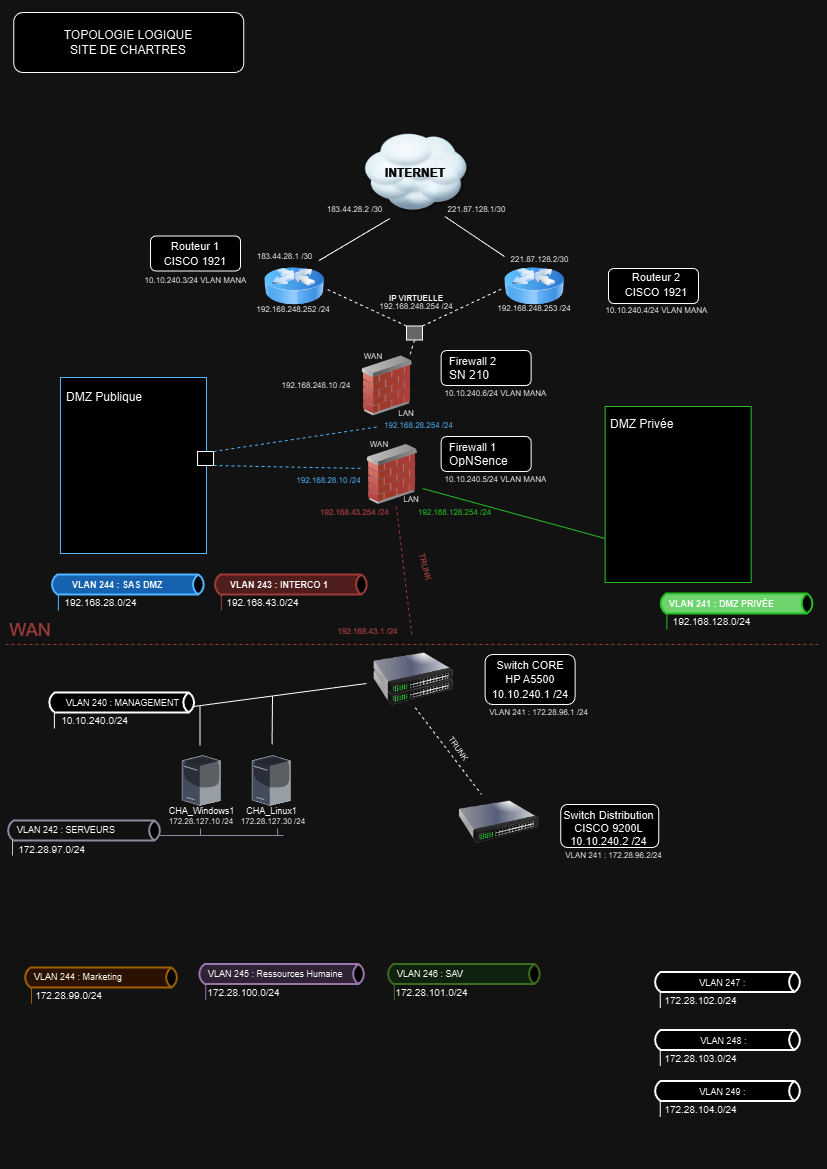
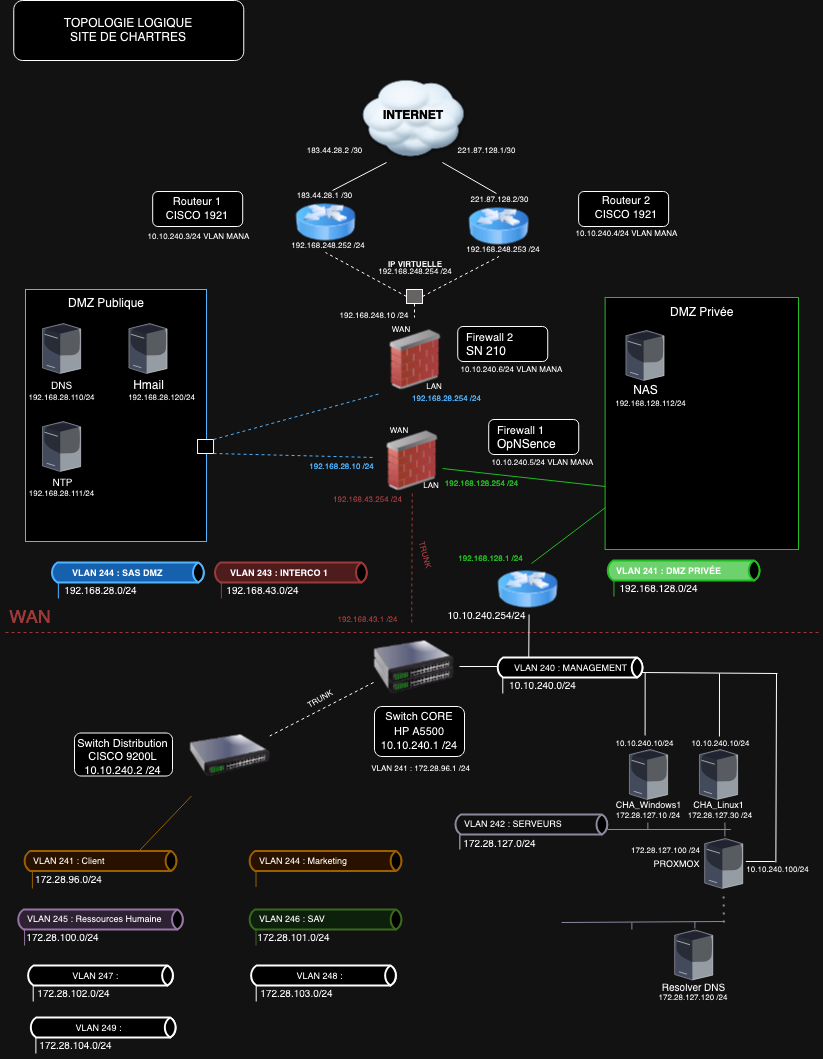
NAS

diff --git a/docs/NAS /config-xigmanas.md b/docs/NAS /config-xigmanas.md
@@ -1,0 +1,135 @@
+# 1. Configuration de XigmaNAS
+
+## Informations Générales
+**Nom du Serveur**: `CHA-NAS`  
+**Version**: `Dernière version stable - 13.3.0.5 - Hesterion (revision 10153)`  
+**Adresse IP**: `192.168.128.112 - DMZ PRIVÉE`  
+**Rôle**: Partage de fichiers, stockage en réseau (NAS)
+**Type**: Serveur Virtuel sur NUTANIX
+---
+
+## Étapes de Configuration
+
+### 1. Installation
+1. Téléchargez l'image ISO de XigmaNAS depuis le site officiel.
+2. Mettre l'iso sur **Nutanix**.
+3. Création de la machine virtuelle.
+- 8Go RAM 
+- 1 Disque SYSTEM de 50Go
+- 3 Disques DATA de 1To
+
+---
+
+### 3. Configuration Réseau
+
+#### **Paramètres réseau**
+- **Adresse IP Statique** : `192.168.128.112`
+- **Masque de Sous-Réseau** : `255.255.255.0`
+- **Passerelle par défaut** : `192.168.128.254`
+- **DNS primaire** : `172.28.127.120`
+- **DNS secondaire** : `*`
+
+- **Enregistrement DNS**: nas.chartres.sportludique.fr
+
+#### **Accès au Tableau de Bord**
+- Ouvrez votre navigateur web et accédez à :  
+  `http://192.168.128.112`
+
+---
+
+### 4. Configuration des Services - **PAS ENCORE ACTIF**
+Activez et configurez les services nécessaires dans le tableau de bord :
+
+#### **SMB/CIFS** (Partage Windows)
+- Allez dans `Services > SMB/CIFS`.
+- Activez le service.
+- Configurez les paramètres principaux :
+  - **Nom NetBIOS** : `XigmaNAS`
+  - **Groupe de Travail** : `WORKGROUP`
+- Ajoutez les répertoires partagés.
+
+#### **NFS** (Partage UNIX/Linux)
+- Activez le service dans `Services > NFS`.
+- Configurez les chemins d'accès et permissions.
+
+#### **FTP** (Transfert de fichiers)
+- Activez le service dans `Services > FTP`.
+- Créez des utilisateurs et attribuez des permissions.
+
+---
+
+### 5. Gestion des Utilisateurs avec Active Directory **PAS ENCORE ACTIF**
+
+L'intégration de XigmaNAS avec un serveur **Active Directory (AD)** permet de centraliser la gestion des utilisateurs et des groupes, en simplifiant l'administration des accès réseau.
+
+#### **Étapes pour configurer l'intégration avec Active Directory :**
+
+1. **Pré-requis :**
+   - Un serveur Active Directory fonctionnel.
+   - Le domaine AD auquel XigmaNAS doit se joindre (ex. `chartres.sportludique.fr`). 
+   - Un compte utilisateur dans l'AD avec des droits d'administration pour joindre des machines au domaine.
+   - XigmaNAS configuré avec une adresse IP statique (ex. `192.168.128.112`).
+
+2. **Configurer les paramètres réseau :**
+   - Assurez-vous que XigmaNAS peut résoudre les noms DNS du domaine AD.
+   - Configurez le DNS primaire de XigmaNAS pour pointer vers le contrôleur de domaine AD (ex. `172.28.127.120`).
+
+   **Exemple :**
+   - Allez dans `Réseau > Configuration Globale`.
+   - Définissez le **DNS principal** comme l'IP de votre contrôleur de domaine.
+   - Redémarrez les services réseau pour appliquer les modifications.
+
+3. **Rejoindre le domaine Active Directory :**
+   - Accédez à `Services > Active Directory`.
+   - Activez le service et remplissez les champs :
+     - **Nom du Domaine** : `lan.chartres.sportludique.fr`.
+     - **Nom NetBIOS** : `xigmanas`.
+     - **Nom d'Utilisateur** : Un compte administrateur AD (ex. `admin`).
+     - **Mot de Passe** : Le mot de passe de l’utilisateur.
+     - **Serveur LDAP** (optionnel) : Laissez vide pour une détection automatique.
+     - **Serveur Kerberos** : Laissez vide pour une détection automatique.
+   - Cliquez sur **Enregistrer et Appliquer**.
+
+4. **Vérifier l'intégration :**
+   - Une fois connecté au domaine, les utilisateurs et groupes AD seront visibles dans `Accès > Utilisateurs et Groupes`.
+   - Testez la connexion en vous connectant avec un utilisateur AD à un partage réseau configuré.
+
+5. **Configurer les permissions avec les groupes AD :**
+   - Allez dans `Disques > Partages`.
+   - Ajoutez un partage ou modifiez un existant.
+   - Dans la section **Permissions**, sélectionnez un utilisateur ou un groupe provenant d’AD (ex. `DOMAIN\Utilisateurs`).
+   - Définissez les permissions :
+     - **Lecture seule** : Les membres peuvent uniquement voir les fichiers.
+     - **Lecture/Écriture** : Les membres peuvent modifier ou supprimer des fichiers.
+   - Enregistrez les modifications.
+
+6. **Surveiller l’état de l’intégration :**
+   - Consultez les journaux de XigmaNAS via `Système > Journaux` pour vérifier l'état des connexions AD.
+   - En cas de problème, vérifiez la configuration DNS et assurez-vous que l'heure système est synchronisée avec le contrôleur AD.
+
+---
+
+#### **Bonnes pratiques :**
+- Utilisez un compte de service dédié pour rejoindre XigmaNAS au domaine, avec des droits limités.
+- Vérifiez que l'heure système de XigmaNAS est synchronisée avec celle de votre contrôleur de domaine (utilisez **NTP** si nécessaire).
+- Limitez les permissions des partages réseau en utilisant des groupes AD pour une gestion plus simple.
+- Surveillez régulièrement l'intégration pour détecter tout problème de connectivité ou de synchronisation.
+
+*Cette section assure une gestion optimisée et centralisée des utilisateurs à travers Active Directory dans XigmaNAS.*
+
+
+---
+
+### 6. Surveillance et Maintenance
+- Configurez les notifications par email pour les alertes système.
+- Vérifiez régulièrement les journaux système dans `Système > Journaux`.
+
+---
+
+## Informations Complémentaires
+- **Documentation officielle** : [https://www.xigmanas.com/wiki/](https://www.xigmanas.com/wiki/)  
+- **Communauté et Support** : Forums sur le site officiel.
+
+---
+
+*Dernière mise à jour de la configuration : [20/11/2024]*

diff --git a/docs/NAS /config-ZFS-RAIDZ1.md b/docs/NAS /config-ZFS-RAIDZ1.md
@@ -1,0 +1,200 @@
+# Créer un Pool RaidZ1 avec ZFS : Guide Complet en 34 Étapes
+
+Ce guide explique comment créer un Pool **RaidZ1** avec 4 disques en ZFS. Chaque étape est accompagnée d'une image pour illustrer les actions à réaliser.
+
+---
+
+## 1. Commencer avec des disques vides  
+Accédez à **Disques > ZFS > Pools > Gestion** :  
+![](../images/imagenas/etape1.JPG)
+
+---
+
+## 2. Importer les disques disponibles  
+Cliquez sur **Importer les disques disponibles** :  
+![](../images/imagenas/etape2.JPG)
+
+---
+
+## 3. Appliquer les modifications pour importer  
+Cliquez sur **Appliquer** pour valider l'importation :  
+![](../images/imagenas/etape3.JPG)
+
+---
+
+## 4. Disques importés  
+Les disques importés apparaissent dans la liste :  
+![](../images/imagenas/etape4.JPG)
+
+---
+
+## 5. Système de fichiers "Inconnu"  
+Les disques affichent un système de fichiers "Inconnu" et ne peuvent pas être utilisés sans formatage :  
+![](../images/imagenas/etape5.JPG)
+
+---
+
+## 6. Vue d'ensemble des disques à formater  
+Accédez à **Disques > Gestion** pour voir les disques à formater pour ZFS :  
+![](../images/imagenas/etape6.JPG)
+
+---
+
+## 7. Sélectionner les disques à utiliser pour ZFS  
+Cochez les disques que vous souhaitez utiliser pour ZFS :  
+![](../images/imagenas/etape7.JPG)
+
+---
+
+## 8. Vérifier les disques sélectionnés  
+Assurez-vous que les disques sont correctement sélectionnés. **Ne modifiez pas les options de formatage** :  
+![](../images/imagenas/etape8.JPG)
+
+---
+
+## 9. Formater les disques sélectionnés  
+Cliquez sur **Formater** pour formater les disques sélectionnés pour ZFS :  
+![](../images/imagenas/etape9.JPG)
+
+---
+
+## 10. Disques formatés pour ZFS  
+Les disques sont maintenant formatés et prêts pour ZFS :  
+![](../images/imagenas/etape10.JPG)
+
+---
+
+## 11. Disques prêts pour ZFS  
+Tous les disques sont maintenant prêts à être utilisés pour ZFS :  
+![](../images/imagenas/etape11.JPG)
+
+---
+
+## 12. Accédez à la gestion des Pools  
+Allez dans **Disques > ZFS > Pools > Gestion**, la page sera vide pour l'instant :  
+![](../images/imagenas/etape12.JPG)
+
+---
+
+## 13. Aller dans la section Périphérique virtuel  
+Allez dans la section **Périphérique virtuel** :  
+![](../images/imagenas/etape13.JPG)
+
+---
+
+## 14. Créer un nouveau périphérique virtuel  
+Cliquez sur le bouton **+** pour commencer à créer un nouveau périphérique virtuel :  
+![](../images/imagenas/etape14.JPG)
+
+---
+
+## 15. Liste des disques disponibles  
+Les disques formatés apparaissent dans la liste des disques disponibles :  
+![](../images/imagenas/etape15.JPG)
+
+---
+
+## 16. Sélectionner les disques et le niveau de RAID  
+Cochez les disques à utiliser, donnez un nom au périphérique virtuel et sélectionnez **RaidZ1** :  
+![](../images/imagenas/etape16.JPG)
+
+> **Attention** : Ne cochez pas "Wrapper 4KB".
+
+---
+
+## 17. Créer le périphérique virtuel  
+Cliquez sur **Créer**, puis validez en cliquant sur **OK** :  
+![](../images/imagenas/etape17.JPG)
+
+---
+
+## 18. Appliquer les modifications  
+Cliquez sur **Appliquer** pour enregistrer le périphérique virtuel créé :  
+![](../images/imagenas/etape18.JPG)
+
+---
+
+## 19. Vérifier le périphérique virtuel créé  
+Votre périphérique virtuel est maintenant visible dans la liste :  
+![](../images/imagenas/etape19.JPG)
+
+---
+
+## 20. Retourner à la gestion des Pools  
+Retournez à **Disques > ZFS > Pools > Gestion** :  
+![](../images/imagenas/etape20.JPG)
+
+---
+
+## 21. Ajouter un périphérique virtuel au Pool  
+Cliquez sur **+** pour ajouter un périphérique virtuel au Pool :  
+![](../images/imagenas/etape21.JPG)
+
+---
+
+## 22. Sélectionner le périphérique virtuel  
+Cochez le périphérique virtuel créé et donnez un nom à votre Pool (ex : `/mnt/testpool1`) :  
+![](../images/imagenas/etape22.JPG)
+
+---
+
+## 23. Ne touchez pas aux autres paramètres  
+Laissez les options par défaut, puis cliquez sur **Appliquer** :  
+![](../images/imagenas/etape23.JPG)
+
+---
+
+## 24. Pool RaidZ1 créé  
+Votre Pool RaidZ1 a été créé avec succès :  
+![](../images/imagenas/etape24.JPG)
+
+---
+
+## 25. Pool monté et prêt à l'utilisation  
+Le Pool est maintenant monté et prêt à l'utilisation :  
+![](../images/imagenas/etape25.JPG)
+
+---
+
+## 26. Détails du Pool  
+Consultez les informations détaillées sur votre Pool créé :  
+![](../images/imagenas/etape26.JPG)
+
+---
+
+## 27. Mettre à jour les fonctionnalités ZFS  
+Cliquez sur **Mettre à jour ZFS** en bas de la page pour activer les fonctionnalités récentes de ZFS :  
+![](../images/imagenas/etape27.JPG)
+
+---
+
+## 28. Sélectionner le Pool pour la mise à jour  
+Cochez le Pool créé et appliquez la mise à jour des fonctionnalités ZFS :  
+![](../images/imagenas/etape28.JPG)
+
+---
+
+## 29. Mise à jour des fonctionnalités terminée  
+La mise à jour des fonctionnalités est terminée :  
+![](../images/imagenas/etape29.JPG)
+
+---
+
+## 30. Vérification de l'état du Pool  
+Vérifiez que l'état du Pool est "clean" :  
+![](../images/imagenas/etape30.JPG)
+
+---
+
+## 31. Synchronisation après création via la ligne de commande  
+Si vous avez créé le Pool en ligne de commande, synchronisez-le pour qu'il soit visible dans l'interface web :  
+![](../images/imagenas/etape31.JPG)
+
+---
+
+### Commande unique pour créer un Pool RaidZ1  
+Vous pouvez créer le Pool en une seule commande via la ligne de commande :
+
+```bash
+zpool create testpool1 raidz1 /dev/disk1 /dev/disk2 /dev/disk3 /dev/disk4
+```
